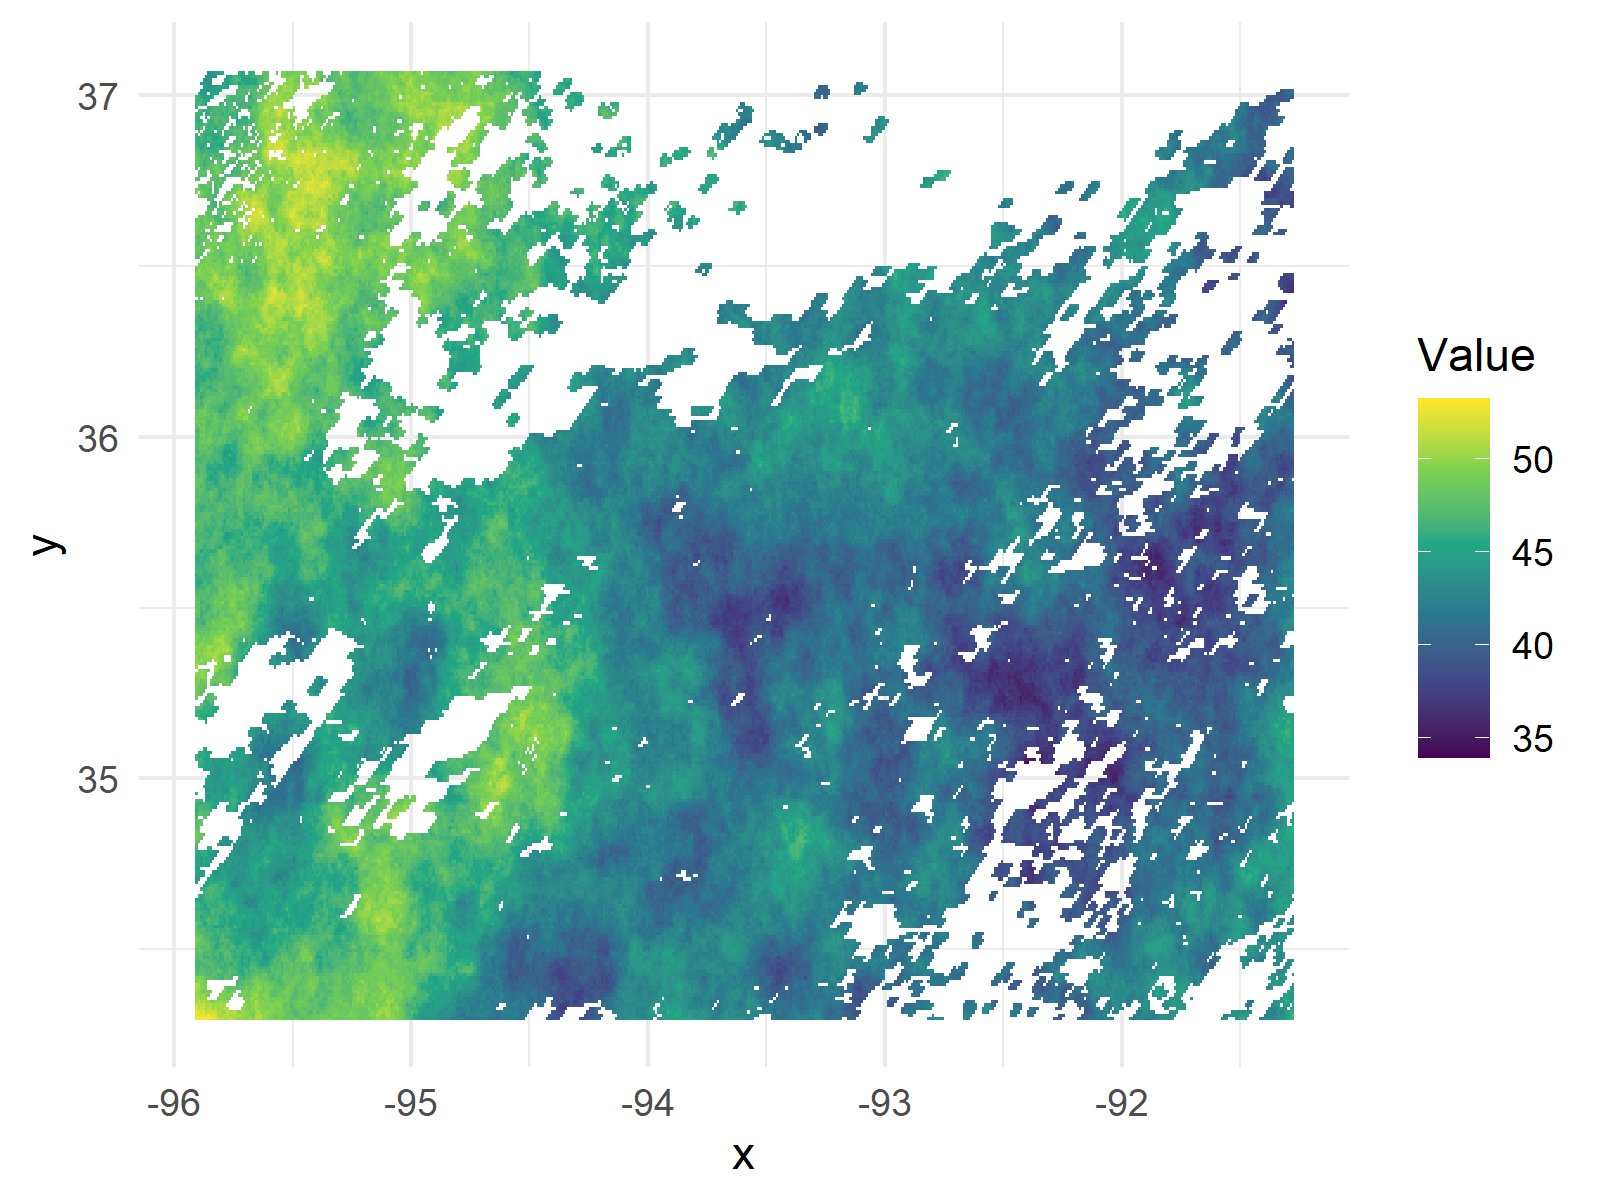
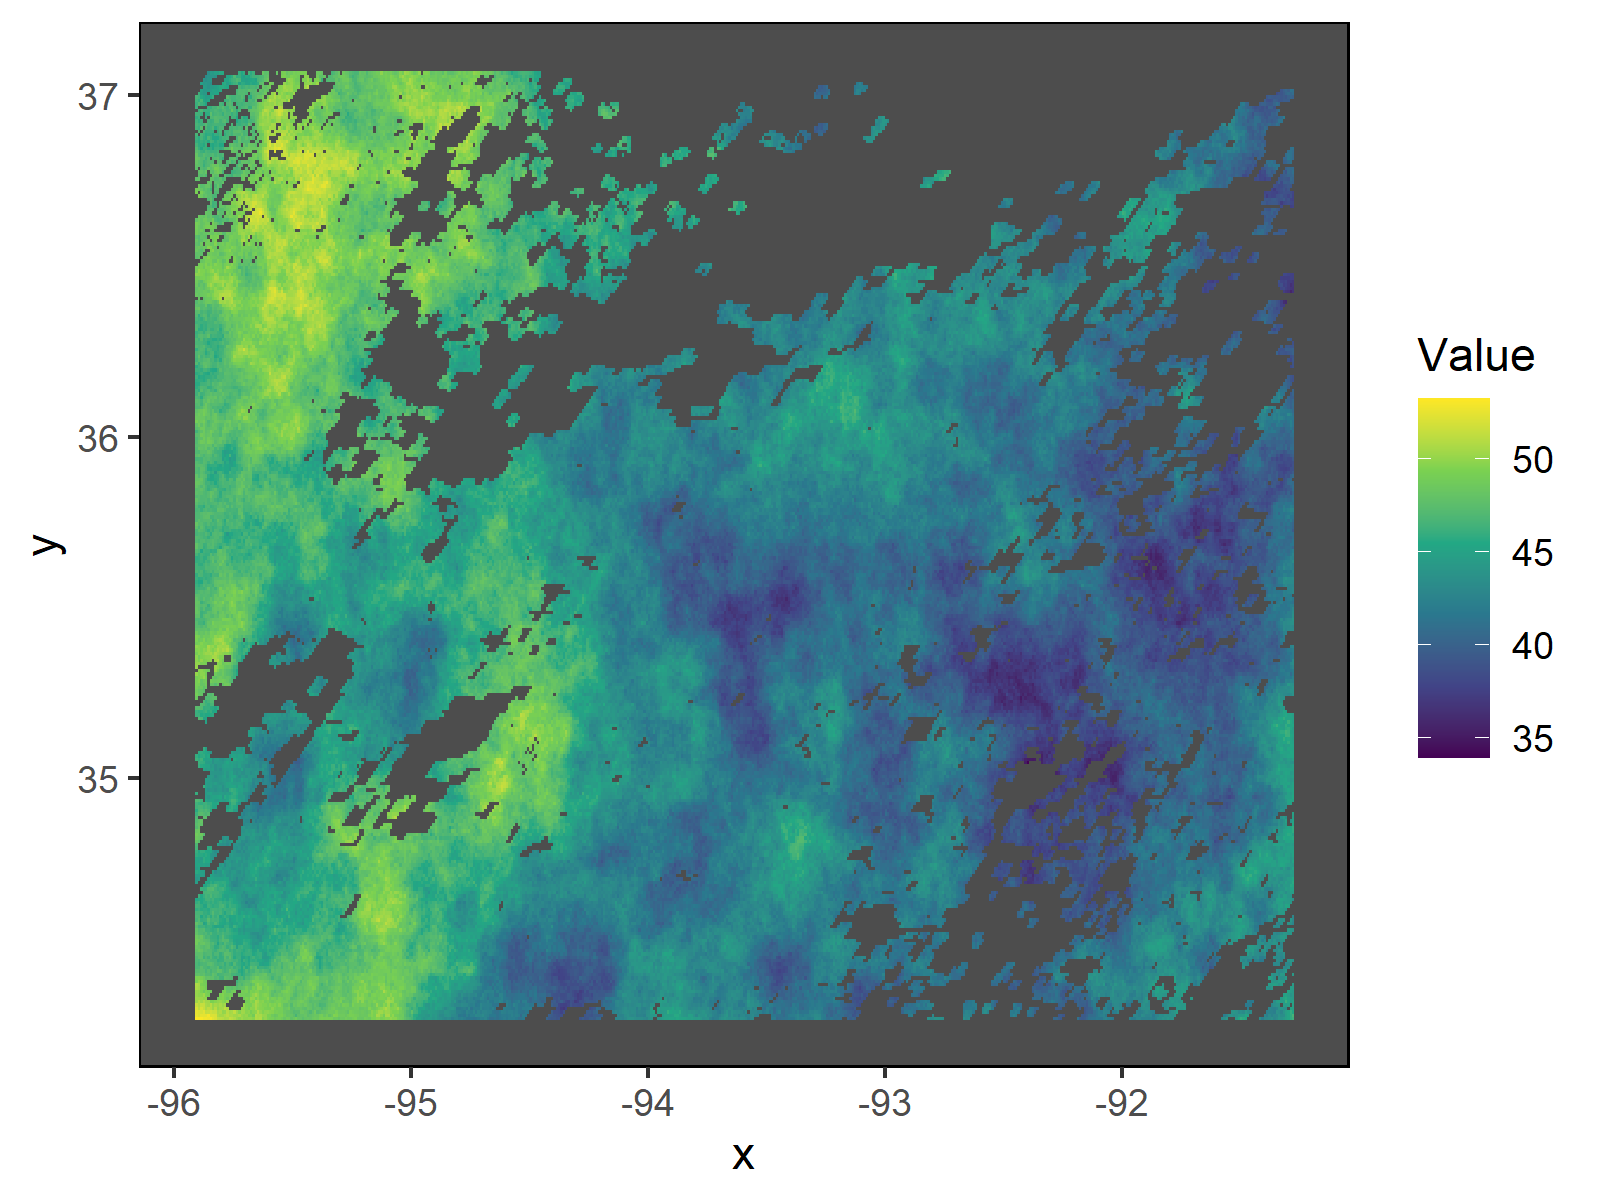
Updated pics for all 5 analyzed datasets

diff --git a/README.md b/README.md
@@ -8,7 +8,7 @@ This code facilitates formatting and fitting fully-connected neural networks to 
 
 <p float="middle">
   <img src="datasets/Quant150K_Sim/pics/train.png" width="49%" />
-  <img src="datasets/Quant150K_Sim/pics/error_4by4_lee.png" width="49%" />
+  <img src="datasets/Quant150K_Sim/pics/basis_4_lee2018_error_test.png" width="49%" />
 </p>
 
 
